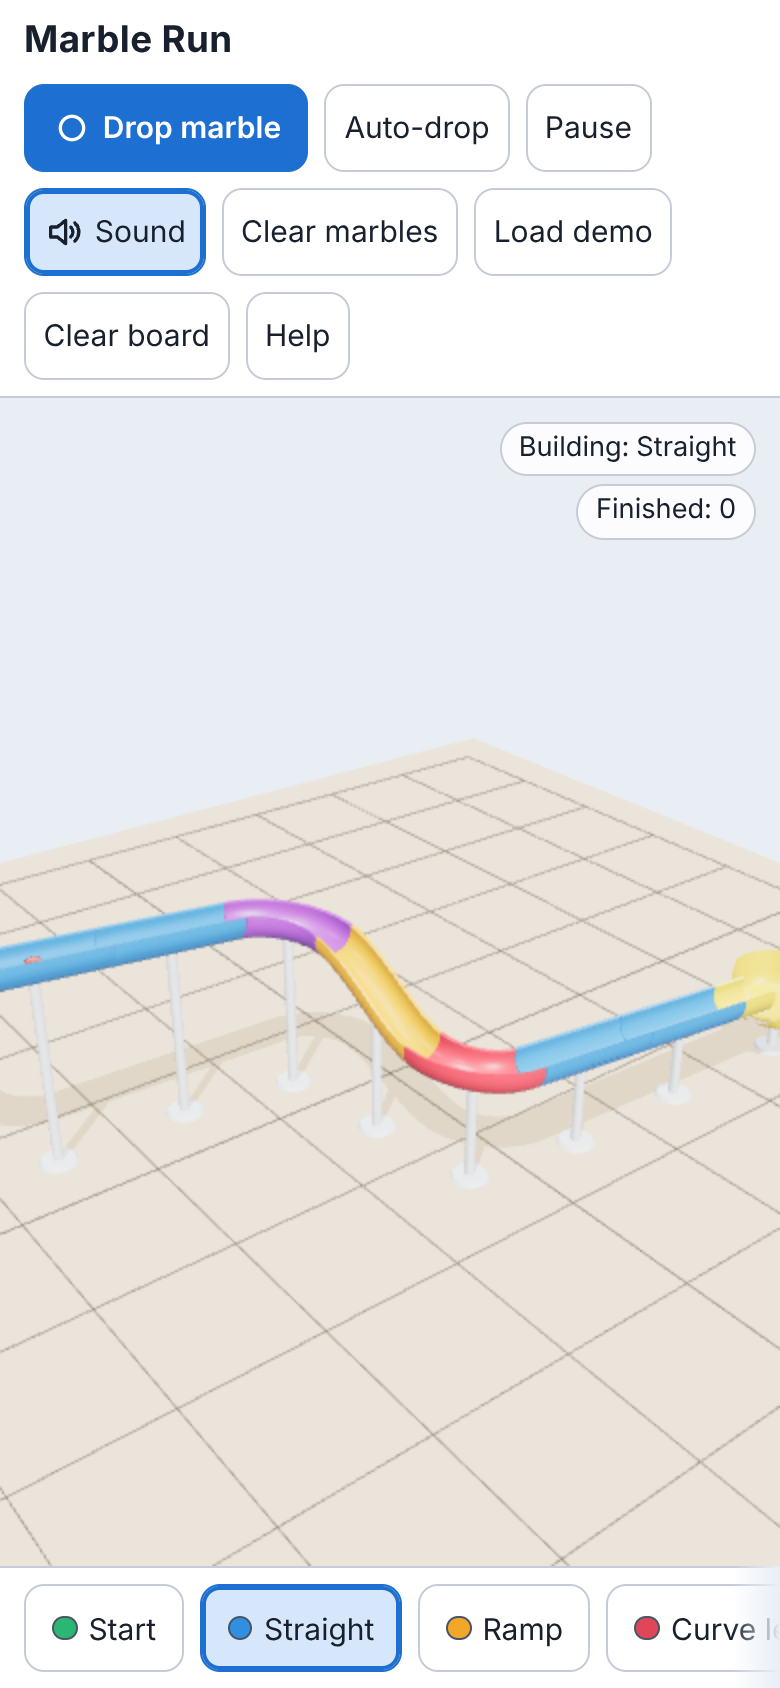
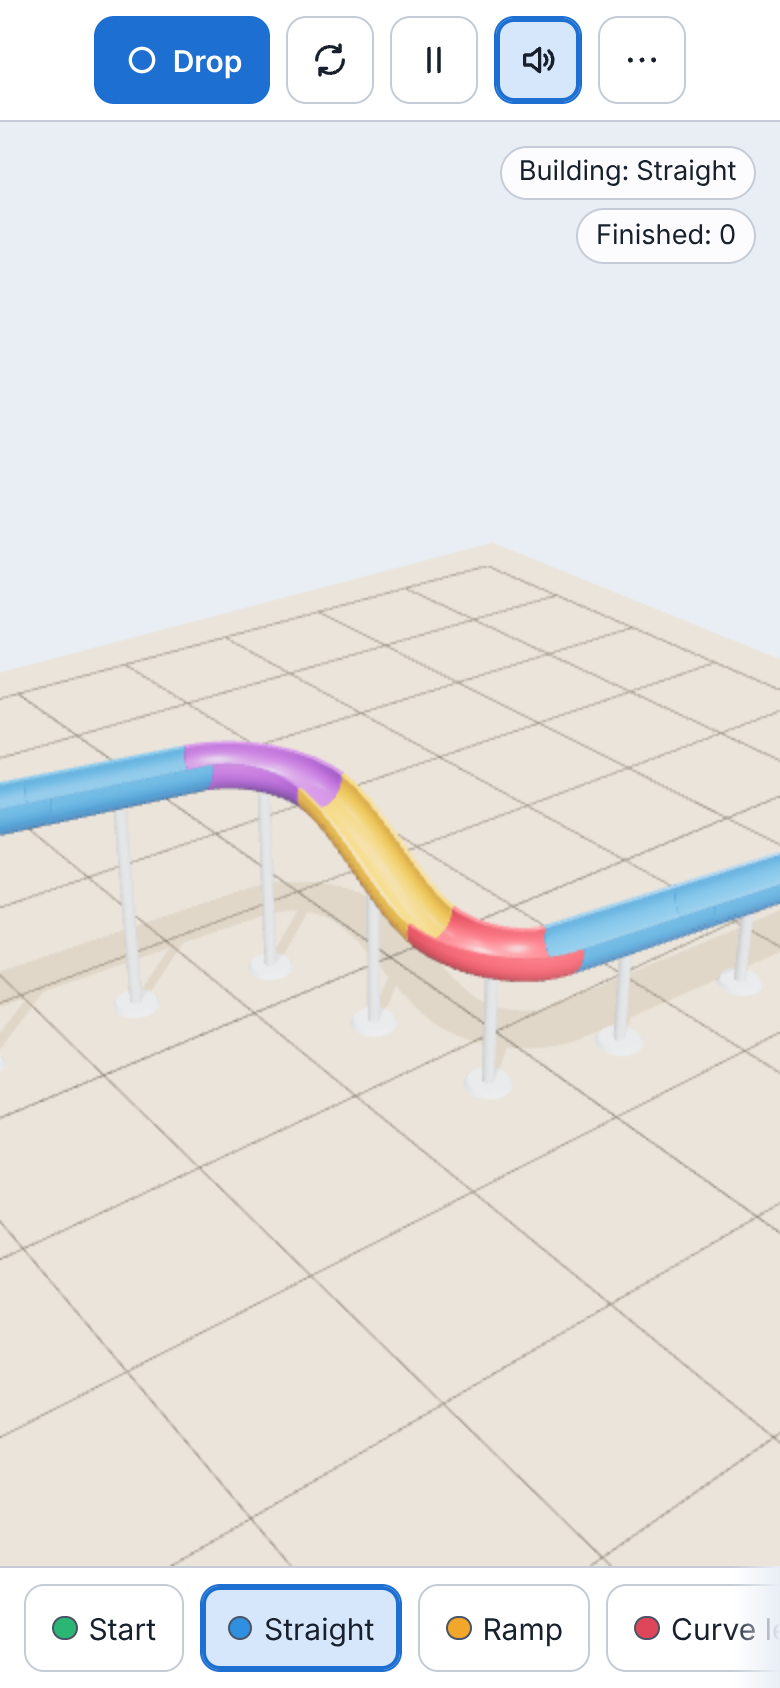
Fit the top bar on one row at every screen width
Below 1140px the secondary actions (Clear marbles, Load demo, Clear
board, Update, Install app, Help) move into a "More" popover menu,
anchored to its button where CSS anchor positioning is supported. On
wide screens the same buttons stay inline (the menu is display:
contents), so there's one copy of each control.

Narrower still, labels shorten ("Drop", "Auto"), the title is hidden
visually (kept for screen readers), and on the smallest phones
Auto-drop, Pause and Sound become icon-only with stable aria-labels.
Pause gets pause/play icons. A dot on "More" flags a waiting update.

Checked at widths from 320px to 1280px: one row, no horizontal
overflow, paused or not. Install screenshots refreshed.

Claude-Session: https://claude.ai/code/session_01FHxrDYVcTKcbuAL3EJ8zio

diff --git a/index.html b/index.html
@@ -19,29 +19,72 @@
     <header class="topbar">
       <h1>Marble Run</h1>
       <div class="actions">
-        <button type="button" class="primary" id="drop" aria-keyshortcuts="M">
+        <button
+          type="button"
+          class="primary"
+          id="drop"
+          aria-label="Drop marble"
+          aria-keyshortcuts="M"
+        >
           <svg aria-hidden="true" viewBox="0 0 24 24"><circle cx="12" cy="12" r="7" /></svg>
-          Drop marble
+          <span>Drop<span class="wide-label"> marble</span></span>
         </button>
-        <button type="button" id="auto" aria-pressed="false">Auto-drop</button>
-        <button type="button" id="pause" aria-keyshortcuts="P">Pause</button>
-        <button type="button" id="sound" aria-pressed="true" aria-keyshortcuts="S">
+        <button
+          type="button"
+          id="auto"
+          aria-label="Auto-drop"
+          title="Auto-drop"
+          aria-pressed="false"
+        >
+          <svg aria-hidden="true" viewBox="0 0 24 24">
+            <path d="M4 12a8 8 0 0 1 14-5.3M20 12a8 8 0 0 1-14 5.3M18 3v4h-4M6 21v-4h4" />
+          </svg>
+          <span class="label">Auto<span class="wide-label">-drop</span></span>
+        </button>
+        <button type="button" id="pause" aria-label="Pause" title="Pause (P)" aria-keyshortcuts="P">
+          <svg aria-hidden="true" viewBox="0 0 24 24">
+            <path id="pause-icon" d="M9 5v14M15 5v14" />
+          </svg>
+          <span class="label" id="pause-label">Pause</span>
+        </button>
+        <button
+          type="button"
+          id="sound"
+          aria-label="Sound"
+          aria-pressed="true"
+          aria-keyshortcuts="S"
+        >
           <svg aria-hidden="true" viewBox="0 0 24 24">
             <path d="M4 9v6h4l5 4V5L8 9zM16 9a4 4 0 0 1 0 6M18.5 6.5a7.5 7.5 0 0 1 0 11" />
           </svg>
-          Sound
+          <span class="wide-label">Sound</span>
         </button>
-        <button type="button" id="clear-marbles">Clear marbles</button>
-        <button type="button" id="reset">Load demo</button>
-        <button type="button" id="clear-board">Clear board</button>
-        <button type="button" id="update" class="primary" hidden>Update</button>
-        <button type="button" id="install" hidden>
+        <!-- Secondary actions: inline on wide screens, behind "More" on narrow ones. -->
+        <div id="more-menu" class="more-menu" popover>
+          <button type="button" id="clear-marbles">Clear marbles</button>
+          <button type="button" id="reset">Load demo</button>
+          <button type="button" id="clear-board">Clear board</button>
+          <button type="button" id="update" class="primary" hidden>Update</button>
+          <button type="button" id="install" hidden>
+            <svg aria-hidden="true" viewBox="0 0 24 24">
+              <path d="M12 4v11M7 10l5 5 5-5M5 20h14" />
+            </svg>
+            Install app
+          </button>
+          <button type="button" id="help-open" aria-keyshortcuts="Shift+/">Help</button>
+        </div>
+        <button
+          type="button"
+          id="more"
+          class="more"
+          popovertarget="more-menu"
+          aria-label="More actions"
+        >
           <svg aria-hidden="true" viewBox="0 0 24 24">
-            <path d="M12 4v11M7 10l5 5 5-5M5 20h14" />
+            <path d="M5 12h.01M12 12h.01M19 12h.01" stroke-width="3" />
           </svg>
-          Install app
+          <span class="update-dot" hidden></span>
         </button>
-        <button type="button" id="help-open" aria-keyshortcuts="Shift+/">Help</button>
       </div>
     </header>
 

diff --git a/src/style.css b/src/style.css
@@ -60,6 +60,7 @@ body {
 
 h1 {
   margin: 0;
+  white-space: nowrap;
   font-size: 1.15rem;
   letter-spacing: 0.01em;
 }
@@ -180,6 +181,122 @@ button {
   display: flex;
   flex-wrap: wrap;
   gap: var(--gap);
+
+  & button {
+    white-space: nowrap;
+  }
+}
+
+/* Wide screens: the secondary actions sit inline, as if the menu weren't there. */
+.more-menu {
+  display: contents;
+}
+
+.more {
+  display: none;
+  position: relative;
+}
+
+.update-dot {
+  position: absolute;
+  inset-block-start: 0.3rem;
+  inset-inline-end: 0.3rem;
+  inline-size: 0.6rem;
+  block-size: 0.6rem;
+  border-radius: 50%;
+  background: var(--accent);
+  border: 2px solid var(--surface);
+}
+
+/* Narrower screens: one row of the main actions, with the rest behind "More". */
+@media (max-width: 1140px) {
+  .topbar {
+    flex-wrap: nowrap;
+  }
+
+  .actions {
+    flex-wrap: nowrap;
+  }
+
+  .more {
+    display: inline-flex;
+  }
+
+  .more-menu {
+    position: fixed;
+    inset: auto;
+    inset-block-start: 3.75rem;
+    inset-inline-end: 0.75rem;
+    margin: 0;
+    padding: 0.4rem;
+    flex-direction: column;
+    gap: 0.25rem;
+    min-inline-size: 12rem;
+    border: 1px solid var(--border);
+    border-radius: var(--radius);
+    background: var(--surface);
+    color: var(--text);
+    box-shadow: 0 8px 24px rgb(0 0 0 / 0.2);
+
+    &:not(:popover-open) {
+      display: none;
+    }
+
+    &:popover-open {
+      display: flex;
+    }
+
+    & button {
+      justify-content: start;
+      border-color: transparent;
+    }
+
+    & button.primary {
+      border-color: var(--accent);
+    }
+  }
+
+  /* Hang the menu from the "More" button where anchor positioning is supported. */
+  @supports (position-anchor: --more) {
+    .more {
+      anchor-name: --more;
+    }
+
+    .more-menu {
+      position-anchor: --more;
+      inset-block-start: calc(anchor(bottom) + 0.25rem);
+      inset-inline-end: anchor(right);
+    }
+  }
+}
+
+/* Phones: shorter labels, and the title steps aside (it stays for screen readers). */
+@media (max-width: 720px) {
+  .wide-label {
+    display: none;
+  }
+}
+
+@media (max-width: 560px) {
+  .topbar h1 {
+    position: absolute;
+    inline-size: 1px;
+    block-size: 1px;
+    overflow: hidden;
+    clip-path: inset(50%);
+    white-space: nowrap;
+  }
+
+  .topbar {
+    justify-content: center;
+  }
+}
+
+/* The smallest phones: icons only for Auto-drop and Pause (their names stay in aria-label). */
+@media (max-width: 420px) {
+  .actions .label {
+    display: none;
+  }
 }
 
 /* ---------- Stage ---------- */
@@ -376,6 +493,10 @@ dialog::backdrop {
 @media (max-width: 640px) {
   .actions button:not(.primary) {
     padding-inline: 0.55rem;
+  }
+
+  .more-menu button:not(.primary) {
+    padding-inline: 0.8rem;
   }
 }
 

diff --git a/src/main.ts b/src/main.ts
@@ -70,6 +70,13 @@ async function main(): Promise<void> {
     board.load(DEMO_BOARD);
     announce("Demo run loaded");
   });
+  // Choosing anything in the narrow-screen "More" menu closes it.
+  const moreMenu = $("more-menu");
+  moreMenu.addEventListener("click", (event) => {
+    if ((event.target as Element).closest("button") && moreMenu.matches(":popover-open")) {
+      moreMenu.hidePopover();
+    }
+  });
   const help = $<HTMLDialogElement>("help");
   $("help-open").addEventListener("click", () => help.showModal());
 
@@ -153,7 +160,12 @@ async function main(): Promise<void> {
   const setPaused = (value: boolean) => {
     paused = value;
     if (paused) sounds.hush();
-    pauseButton.textContent = paused ? "Resume" : "Pause";
+    const label = paused ? "Resume" : "Pause";
+    $("pause-label").textContent = label;
+    pauseButton.setAttribute("aria-label", label);
+    pauseButton.title = `${label} (P)`;
+    // Two bars while running; a play triangle while paused.
+    $("pause-icon").setAttribute("d", paused ? "M8 5l11 7-11 7z" : "M9 5v14M15 5v14");
     announce(paused ? "Paused" : "Resumed");
   };
 

diff --git a/src/app/pwa.ts b/src/app/pwa.ts
@@ -123,6 +123,9 @@ export function setupPwa(announce: Announce): void {
         const updateButton = $<HTMLButtonElement>("update");
         updateButton.addEventListener("click", update, { once: true });
         updateButton.hidden = false;
+        // On narrow screens the button sits in the "More" menu, so flag the menu button too.
+        document.querySelector<HTMLElement>(".update-dot")!.hidden = false;
+        $("more").setAttribute("aria-label", "More actions, update available");
         toast("A new version of Marble Run is ready.", { label: "Update", run: update });
       },
       onOfflineReady() {
